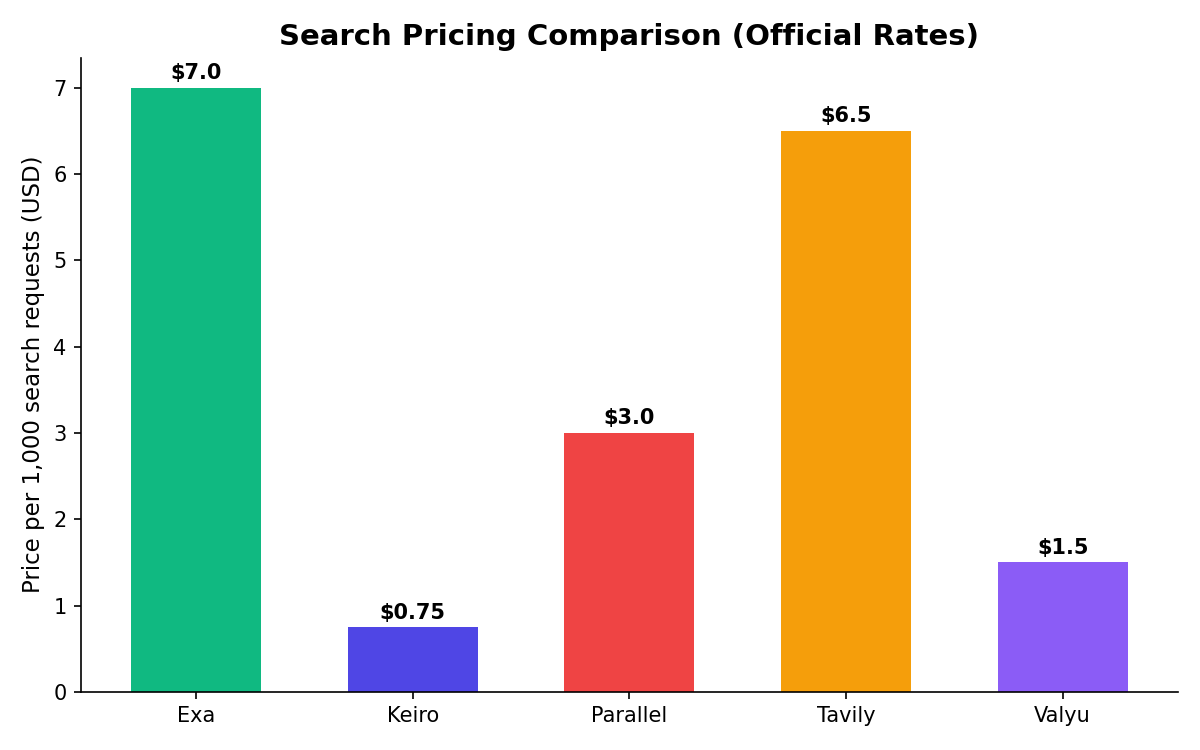
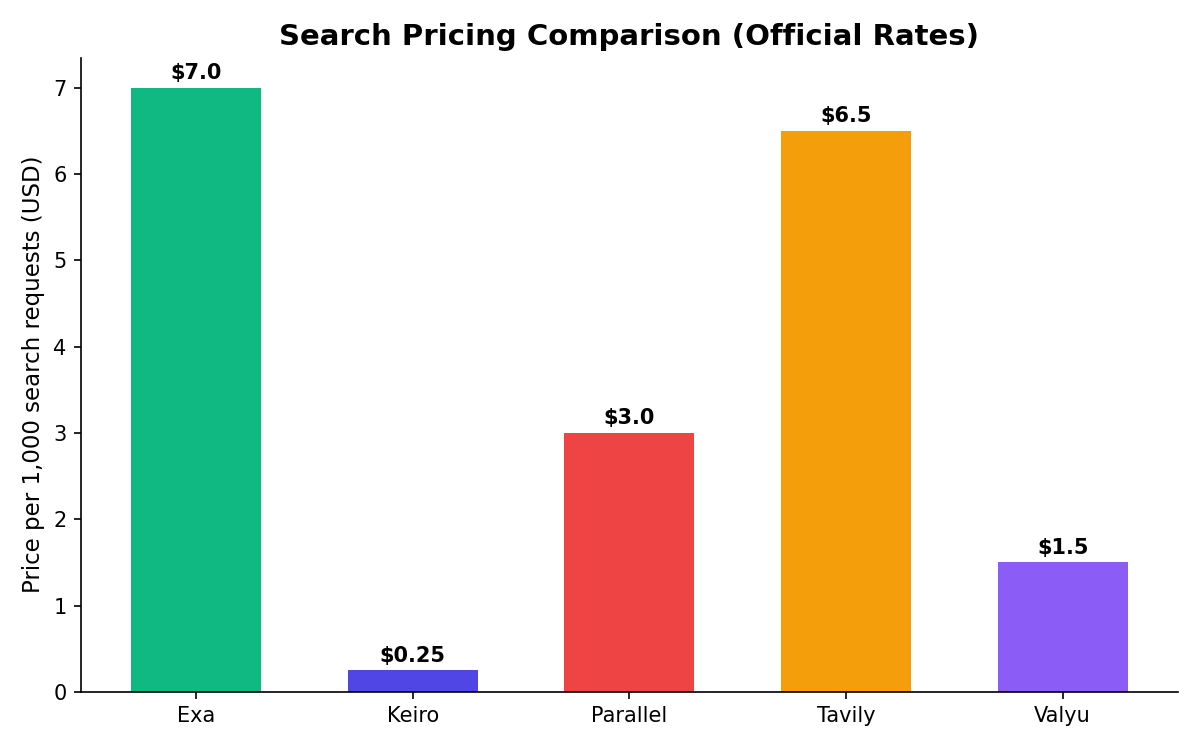
Correct Keiro pricing to confirmed rate

Changed region(s): [[0.2775, 0.7973, 0.4008, 0.92]]

diff --git a/ai-agent-search-benchmark.md b/ai-agent-search-benchmark.md
@@ -100,12 +100,12 @@ Pulled directly from each provider's own official pricing page (not from any com
 
 ![Price Comparison](price_chart.png)
 
-*(Chart uses midpoints of each provider's published price range for search — Keiro/Valyu/Parallel especially vary by plan/source, see table below for full ranges.)*
+*(Chart uses midpoints of each provider's published price range for search — Valyu/Parallel especially vary by plan/source, see table below for full ranges. Keiro's rate is a confirmed flat price.)*
 
 | Provider | Search pricing | Free tier |
 |---|---|---|
 | Exa | $7 per 1,000 requests (covers first 10 results; extra results/summaries billed separately) | $20 signup credit + $10/month recurring (~1,400 free searches/month) |
-| Keiro | ~$0.50-$1 per 1,000 queries depending on plan (1 credit/search, 3 credits for search+content) | 500 free credits/month, no card required |
+| Keiro | $0.25 per 1,000 queries | 500 free credits/month, no card required |
 | Parallel | $1-$5 per 1,000 requests (10 results) | Up to 16,000 free requests to start |
 | Tavily | $8 per 1,000 (pay-as-you-go, $0.008/credit) down to $5 per 1,000 on the Growth plan ($500/mo, 100k credits) | 1,000 free credits/month |
 | Valyu | Varies by source: web $1.50/1k, open academic sources (arXiv/PubMed) $0.50/1k, financial data $8/1k, proprietary databases $30-50/1k | $10 in signup credits |
